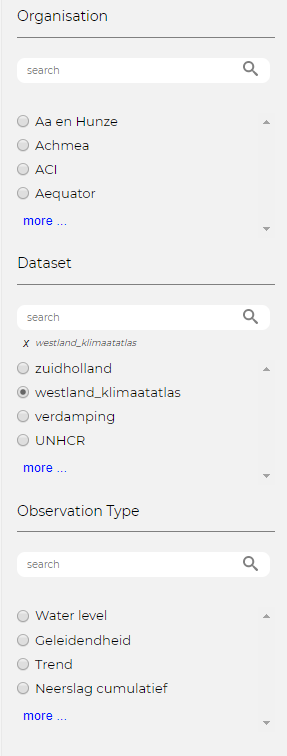
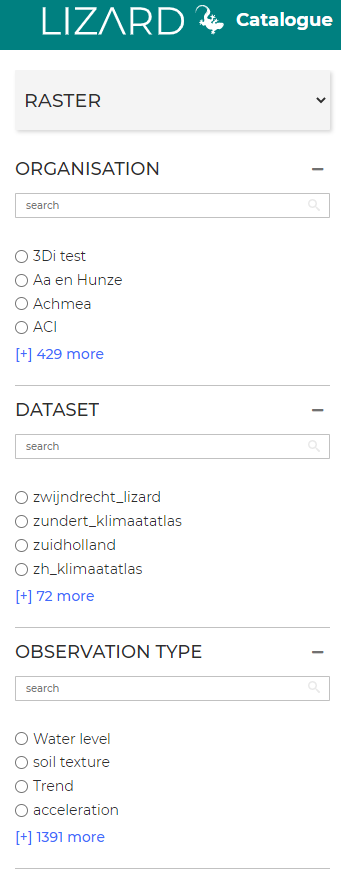
Updated Catalog
Catalog completely rewritten + some small changes on scenarios & servicesupport

diff --git a/source/e_catalog.rst b/source/e_catalog.rst
@@ -2,22 +2,72 @@
 Catalogue
 =========
 
-.. warning::
-    This section will be extended in the coming days.
 
-The Lizard Catalogue offers insight in the data layers that are available for your organisation.
-There is an extensive search option to make the layers easily accesible.
+General
+========
+
+The Lizard Catalogue offers insight in the data that are available for your organisation.
+
+You can reach the Catalogue via the following url:
+https://demo.lizard.net/catalogue/ or {yourorganisation}.lizard.net/catalogue/
+
+.. image:: /images/e_catalog_00.png
+
+For now, the Catalogue covers these three datatypes:  
+
+* **Raster**  Raster layers in Lizard (not included are rasters from 3Di scenarios) 
+* **WMS layer**  Wms layers in Lizard
+* **Time series**  Time series and monitoring networks
+
+
+There is an extensive search option to make the data easily accesible.
 Every data layer will show available metadata.
 From the Catalogue you have the option of opening the data layers via the API or via the Lizard portal.
 
-The Catalogue can be reached via the following url.
 
-https://demo.lizard.net/catalogue/
+Filter
+--------
 
-Data Layers
-===========
+On the left side of the Catalogue app you can find several ways of filtering the data layers you have access to.
+There are three different ways to filter, Organisation, Dataset or Observation type.
+Per filter there is a list of all possible options.
 
-When you open the Catalogue you will see an overview of all the layers you have access to.
+.. image:: /images/e_catalog_03.png
+
+You can also use the search bar per filter to directly enter what you want to filter on.
+
+.. image:: /images/e_catalog_04.png
+
+
+Export, Basket and login
+-------------------------
+
+In the top right you see the following buttons:
+
+.. image:: /images/e_catalog_07.png
+
+**Export**
+Available and running exports will appear here
+
+
+**Basket**
+Using the Basket makes it easy to make different combinations of data layers to show in Lizard.
+To the left of the data layers are selection boxes.
+Click these boxes to make a selection from one or several data layers.
+After making the selection click the 'Add to basket' button in the lower right corner of the data layers overview.
+At the top right corner of the Catalogue you will see that the Basket button now shows the number of selected data layers.
+Opening the basket gives an overview of all selected layers, and a button to 'Open all data in Lizard'.
+This will open a new window for Lizard, with all the selected data layers opened.
+
+**Login**
+If you are logged in, you will have access to data that is common, or private and shared with your organisation.
+Also, you have to be logged in to be able to export.
+
+
+Rasters
+=========
+
+When you open the Catalogue and choose 'Raster' in the top left, you will see an overview of all the layers you have access to.
 It will show a list of 10 items, with the option to click through to other pages.
 At the top of the screen there is a search bar.
 Using search terms that are in the Name or the Description of the data layer you can more easily find specific data layers that you might be interested in.
@@ -33,22 +83,13 @@ The following information is visible in this overview.
 
 .. note::
     Information about the different Access modifiers can be found under :ref:`OrganisationsAnchor`.
+	
+.. note::
+    Not included are rasters from 3Di scenarios
 
-Filters
-=======
-
-On the left side of the Catalogue app you can find several ways of filtering the data layers you have access to.
-There are three different ways to filter, Organisation, Dataset or Observation type.
-Per filter there is a list of all possible options.
-
-.. image:: /images/e_catalog_03.png
-
-You can also use the search bar per filter to directly enter what you want to filter on.
-
-.. image:: /images/e_catalog_04.png
 
 Details
-=======
+--------
 
 Once you have selected a data layer, you will find detailed information about the dataset in the panel on the right.
 Here it will show a map of the area and a visualisation of the data.
@@ -57,13 +98,20 @@ If you want to use the dataset in your Portal or if you want to use it for data 
 
 .. image:: /images/e_catalog_05.png
 
+Lizard WMS Service for rasters
+--------------------------------
+
+When you filtered on “Dataset” a Lizard WMS GetCapabilities link appears in the list of meta data of the raster. You can use this link to visualise the raster in external applications such as QGIS or ESRI applications.
+
+For more infomation, please consult the WMS Services.
+
 Exporting
-=========
+----------
 
 Select the raster you would like to export.
-Click on the Export button in the panel on the right. 
+Click on the Export button in the action menu. 
 
-.. image:: /images/e_catalog_02.png
+.. image:: /images/e_catalog_06a.png
 
 The Export Selection window will pop up. 
 Follow the steps: 
@@ -76,27 +124,111 @@ Click on Download selected cells.
 A task will be started in the background.
 Once your GeoTIFF's are ready you will receive a notification in the Export dropdown menu in the green bar.
 
-.. image:: /images/e_catalog_06.png
+.. image:: /images/e_catalog_06b.png
 
-Lizard WMS Service for rasters
-==============================
-When you filtered on "Dataset" a Lizard WMS GetCapabilities link appears in the list of meta data of the raster.
-You can use this link to visualize the raster in external applications such as QGIS or ESRI applications.
 
-.. image:: /images/e_catalog_01.png
+WMS layers
+=============
+
+When you open the Catalogue and choose 'WMS layer'  in the top left, you will see an overview of all the wms layers you have access to.
+It will show a list of 10 items, with the option to click through to other pages.
+At the top of the screen there is a search bar.
+Using search terms that are in the Name or the Description of the data layer you can more easily find specific data layers that you might be interested in.
+
+The following information is visible in this overview.
+
+
+* **Name** Name of the wms layer.
+* **Organisation** To which organisation the data layer belongs.
+* **Description** A short description of the data contained within the data layer.
+* **Access modifier** Divided into Public, Common and Private.
+
+.. note::
+    Information about the different Access modifiers can be found under :ref:`OrganisationsAnchor`.
+
+
+Details
+--------
+
+Once you have selected a wms layer, you will find detailed information about the dataset in the panel on the right.
+Here it will show a map of the area and a visualisation of the data.
+Below the map there is a table with detailed meta information about the data layer.
+If you want to use the dataset in your Portal or if you want to use it for data science purposes you can either choose to open it in the Portal or the API. 
+
+.. image:: /images/e_catalog_08.png
+
+Action menu
+------------
+
+
+.. image:: /images/e_catalog_09.png
+
+You can download the wms directly, open it in the portal or in the API or analyse the wms layer in another application linking to Lizard. 
+You can use this link to visualise the raster in external applications such as QGIS or ESRI applications.
+
 
 For more infomation, please consult the :doc:`WMS Services<e_lizardwms>`.
 
 
-Basket
-======
 
-Using the Basket it is easy to make different combinations of data layers to show in Lizard.
-To the left of the data layers are selection boxes.
-Click these boxes to make a selection from one or several data layers.
-After making the selection click the 'Add to basket' button in the lower right corner of the data layers overview.
-At the top right corner of the Catalogue you will see that the Basket button now shows the number of selected data layers.
-Opening the basket gives an overview of all selected layers, and a button to 'Open all data in Lizard'.
-This will open a new window for Lizard, with all the selected data layers opened.
 
-.. image:: /images/e_catalog_07.png
+Time series and monitoring networks
+====================================
+
+When you open the Catalogue and choose 'Time series' in the top left, you will see an overview of all the layers you have access to.
+It will show a list of 10 items, with the option to click through to other pages.
+At the top of the screen there is a search bar.
+Using search terms that are in the Name or the Description of the data layer you can more easily find specific data layers that you might be interested in.
+
+
+The following information is visible in this overview.
+
+* **Monitoring network** Name of the data layer.
+* **Organisation** To which organisation the data layer belongs.
+* **Access modifier** Divided into Public, Common and Private.
+
+
+
+.. note::
+    Information about the different Access modifiers can be found under :ref:`OrganisationsAnchor`.
+	
+	
+In monitoring networks, you can group timeseries. This can be done for example by grouping them by observation type or by source.
+	
+.. note::
+    New monitoring networks can be added via https://demo.lizard.net/api/v4/monitoringnetworks/ or {yourorganisation}.lizard.net/api/v4/monitoringnetworks/ or with the help of a consultant. In the near future, time series can be managed via the management screens. 
+	
+ 
+
+Details
+--------
+
+Once you have selected a monitoring network, you will find detailed information about the dataset in the panel on the right.
+Here it will show a map of the area and a visualisation of the data.
+Below the map there is a table with detailed meta information about the data layer.
+
+
+.. image:: /images/e_catalog_10.png
+
+Action menu
+------------
+
+In the action menu, you can export the timeries you are interested in or open it in the portal or in the API.
+You can filter on the observation type, which time series have data in a certain period and/or on location. 
+
+First choose "Select time series". 
+
+.. image:: /images/e_catalog_11.png
+
+Below you see a screenshot of all locations with time series for monitoring network KNMI weerstations without filtering.
+
+.. image:: /images/e_catalog_12.png
+
+Below you see a screenshot of all locations with time series with observation type 'windsnelheid' and that have data between 14 and 16 March 2021.
+Then location Bilt is manually selected (by clicking on a dot or use the search bar) and ready to export or view in the API or in the portal. 
+
+.. image:: /images/e_catalog_13.png
+
+
+
+

diff --git a/source/g_servicesupport.rst b/source/g_servicesupport.rst
@@ -40,12 +40,7 @@ Beyond the scope are enhancement/feature requests or questions about the use of 
 for which the customer can purchase an additional service.
 For more info the customer can contact the local Lizard consultant or email to info@nelen-schuurmans.nl.
 
-.. |date| date::
 
-.. Note::
-    This document will be revised periodically to reflect changes in the products and solutions being supported and the processes,
-    procedures and technologies being used to deliver support services.
-    The latest version of this document was created on |date|.
 	
 
 ==============================
@@ -53,6 +48,9 @@ Frequently Asked Questions
 ==============================
 	
 This section will be extended in the near future. 
+
+.. |date| date::
+
 
 .. Note::
     This document will be revised periodically to reflect changes in the products and solutions being supported and the processes,

diff --git a/source/c_scenarios.rst b/source/c_scenarios.rst
@@ -3,7 +3,7 @@
 ==============
 
 .. warning::
-    This section will be extended in the coming days.
+    This section will be extended in the near future.
 	
 
 .. image:: /images/c_manage_3discenarios.png
